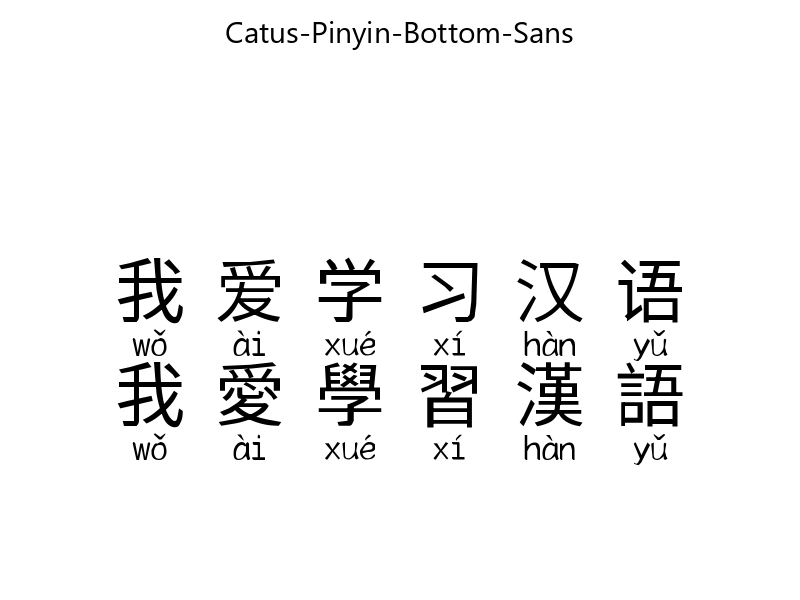
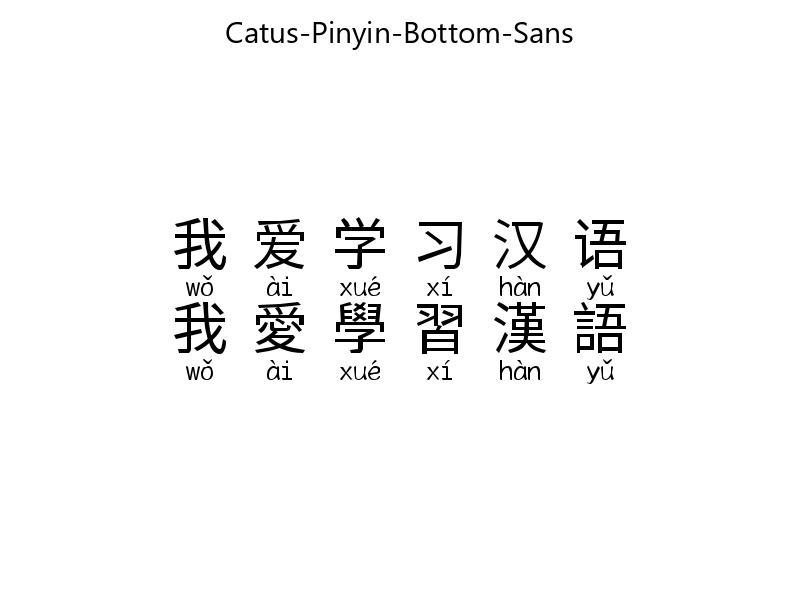
Updates sampler

Changed region(s): [[0.1562, 0.36, 0.875, 0.78]]

diff --git a/tools/font_sampler.py b/tools/font_sampler.py
@@ -1,9 +1,6 @@
 from PIL import Image, ImageDraw, ImageFont
 from fontTools.ttLib import TTFont
-import os
-
 import sys
-
 import os
 
 # Get the directory of the current file
@@ -13,23 +10,23 @@ current_dir = os.path.dirname(os.path.abspath(__file__))
 modules_dir = os.path.join(current_dir, '../src')
 sys.path.append(modules_dir)
 
-# Import font configurations from the config file
-from config import font_configs
-
 # Text to be written on the images
 text = (
     "我爱学习汉语\n"  # Simplified Chinese
     "我愛學習漢語\n"  # Traditional Chinese
-    "I love to learn Chinese\n"  # English
-    "Tôi thích học tiếng Trung\n"  # Vietnamese
-    "Me encanta aprender chino\n"  # Spanish
-    "J'adore apprendre le chinois"  # French
+    # "I love to learn Chinese\n"  # English
+    # "Tôi thích học tiếng Trung\n"  # Vietnamese
+    # "Me encanta aprender chino\n"  # Spanish
+    # "J'adore apprendre le chinois"  # French
 )
 
 # Output image size and background color
-image_size = (1000, 800)
+image_size = (800, 600)
 background_color = (255, 255, 255)  # white background
 text_color = (0, 0, 0)  # black text
+
+# Path to Segoe UI font (from the output folder)
+segoeui_font_path = os.path.join('./output', 'segoeui.ttf')  # Segoe UI font in the output folder
 
 # Function to get the font name from the font file
 def get_font_name(font_path):
@@ -45,36 +42,69 @@ def get_font_name(font_path):
     return name
 
 # Function to create an image with text
-def create_image_with_text(font_path, text, image_size, background_color, text_color):
+def create_image_with_text(font_path, text, image_size, background_color, text_color, segoeui_font_path):
     font_name = get_font_name(font_path)
     full_text = f"{font_name}\n\n{text}"
     
     image = Image.new('RGB', image_size, background_color)
     draw = ImageDraw.Draw(image)
-    font = ImageFont.truetype(font_path, size=40)
     
-    # Get the size of the text
-    text_bbox = draw.textbbox((0, 0), full_text, font=font)
-    text_width = text_bbox[2] - text_bbox[0]
-    text_height = text_bbox[3] - text_bbox[1]
+    # Use Segoe UI font to display the font name
+    try:
+        segoeui_font = ImageFont.truetype(segoeui_font_path, size=30)  # Use Segoe UI for the font name
+    except IOError:
+        segoeui_font = ImageFont.load_default()  # Fallback to default if Segoe UI is not found
     
-    # Centering the text
-    position = ((image_size[0] - text_width) // 2, (image_size[1] - text_height) // 2)
-    draw.text(position, full_text, fill=text_color, font=font)
+    # First, write the font name using Segoe UI
+    font_name_bbox = draw.textbbox((0, 0), font_name, font=segoeui_font)  # Use textbbox instead of textsize
+    font_name_width, font_name_height = font_name_bbox[2] - font_name_bbox[0], font_name_bbox[3] - font_name_bbox[1]
+    font_name_position = ((image_size[0] - font_name_width) // 2, 10)  # Position the font name at the top center
+    draw.text(font_name_position, font_name, fill=text_color, font=segoeui_font)
+    
+    # Use the font from the TTF file for the remaining text
+    font_size = 80
+    font = ImageFont.truetype(font_path, size=font_size)
+    
+    # Check if the text fits in the image, and scale down if necessary
+    while True:
+        # Get the size of the text
+        text_bbox = draw.textbbox((0, 0), full_text, font=font)  # Use textbbox instead of textsize
+        text_width = text_bbox[2] - text_bbox[0]
+        text_height = text_bbox[3] - text_bbox[1]
+        
+        # Check if the text fits within the image dimensions
+        if text_width <= image_size[0] and text_height <= image_size[1]:
+            break
+        
+        # Reduce the font size if the text doesn't fit
+        font_size -= 2
+        font = ImageFont.truetype(font_path, size=font_size)
+    
+    # Position the remaining text below the font name
+    text_position = ((image_size[0] - text_width) // 2, font_name_height + 20)
+    draw.text(text_position, full_text, fill=text_color, font=font)
     
     return image
 
 # Ensure the output directory exists
-output_dir = './outputs'
+output_dir = './output'
 os.makedirs(output_dir, exist_ok=True)
 
-# Main function to generate images
-def generate_images_from_configs():
-    for label, config in font_configs.items():
-        font_path = os.path.join(output_dir, config['output_font'])
-        image = create_image_with_text(font_path, text, image_size, background_color, text_color)
-        image.save(os.path.join(output_dir, f'Sample_{config["font_name"].replace(" ", "-")}.png'))
-    print("Images have been created and saved successfully.")
+# Function to generate images from all .ttf fonts in the output directory except segoeui.ttf
+def generate_images_from_ttf():
+    # Get all .ttf files in the output directory, excluding segoeui.ttf
+    ttf_files = [f for f in os.listdir(output_dir) if f.endswith('.ttf') and f != 'segoeui.ttf']
+    
+    if not ttf_files:
+        print("No TTF font files found in the output directory (excluding segoeui.ttf).")
+        return
+    
+    for ttf_file in ttf_files:
+        font_path = os.path.join(output_dir, ttf_file)
+        image = create_image_with_text(font_path, text, image_size, background_color, text_color, segoeui_font_path)
+        image.save(os.path.join(output_dir, f'{ttf_file.replace(".ttf", "")}.png'))
+    
+    print(f"Images have been created and saved successfully for {len(ttf_files)} font(s).")
 
-# Call the main function
-generate_images_from_configs()
+# Call the function to generate images from all TTF files in the output folder, excluding segoeui.ttf
+generate_images_from_ttf()
